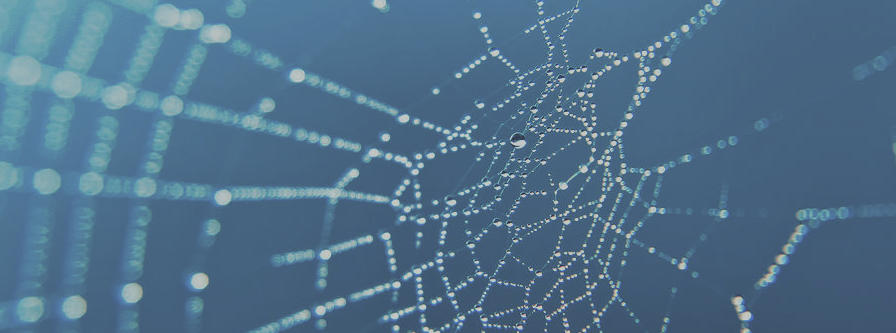
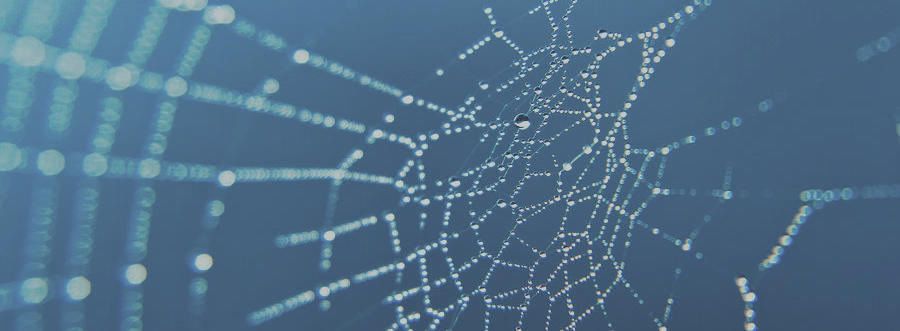
update readme

diff --git a/README.md b/README.md
@@ -1,8 +1,8 @@
-# __Exploratory Data Analysis of US Firework Injury and Sales Reports (2016-2021)__
+# __Using Selenium to Web Scrape Job Postings on Indeed.com__
 
-<img src="https://raw.githubusercontent.com/drusho/EDA_US_Firework_Sales_and_Injuries/main/assets/pexels-ayla-fazioli-5130121_wide.png">
+<img src="https://raw.githubusercontent.com/drusho/webscrapping/main/assets/spider_web.jpg" height="300">
 
-###### _Photo by Ayla Fazioli from Pexels_
+##### Artwork by Dorothy Binder
 
 <br>
 <br>
@@ -10,21 +10,6 @@
 
 ## Links
 ---
-US Firework Sales and Injuries (Part 1) - Cleaning
-   - [Blog Post](https://drusho.github.io/pandas/data%20cleaning/2021/07/14/_06_25_firework_part_1_cleaning.html)
-   - [Google Colab Notebook](https://drive.google.com/file/d/1HoHdYjWWict5lh3yNDFu8dXNp4NVKpI_/view?usp=sharing)
-
-<br>
-
-US Firework Sales and Injuries (Part 2) - Data Analysis
-   - [Blog Post](https://drusho.github.io/pandas/plotly/seaborn/2021/07/14/_07_03_firework_part_2_eda.html)
-   - [Google Colab Notebook](https://colab.research.google.com/drive/1UksUenbmj76pvJPd42b9zzzTkZtMkRy6?usp=sharing)
-
-<br>
-
-[Tableau Dashboard for Fireworks Inuries (2016-2021)](https://public.tableau.com/app/profile/drusho/viz/USFireworkInjuries2016-2021/Dashboard1)
-
-  [<img src="https://raw.githubusercontent.com/drusho/EDA_US_Firework_Sales_and_Injuries/main/assets/tableau_dashboard_preview.png" height="200"/>](https://public.tableau.com/app/profile/drusho/viz/USFireworkInjuries2016-2021/Dashboard1)
 
 
 <br>
@@ -36,72 +21,25 @@ Other Social Media Links:
 <br>
 
 <br>
-<br>
+
 
 ## Project Goals
 ---
 
-1. Provide an overview of incidents that involve fireworks.
-   - Injury frequencies by date
-   - Age Group(s) most affected
-   - Frequency of injury type(s)
-
-2. Provide sales figures for fireworks across the US.
-   - State sales totals by year
-   - World sales of fireworks (top 10)
-
-<br>
-<br>
 
 
 
 ## Summary of Results
 ---
 
-Age group of 0-20 showed the highest rate of injury.
-
-<img src="https://raw.githubusercontent.com/drusho/EDA_US_Firework_Sales_and_Injuries/main/reports/figures/Incident%20Counts%20by%20Age_Bar.png" width="700"/>
-
-<br>
-<br>
-
-Injuries to the hands, face, and eyes were the most common, while injuries to lower extremities were less common.
-
-<img src="https://raw.githubusercontent.com/drusho/EDA_US_Firework_Sales_and_Injuries/main/reports/figures/Incident%20Counts%20by%20Body%20Part.png" height="300"/>
-
-<br>
-<br>
-
-Missouri held the record for most spent on fireworks (over 250 million dollars over the past 5 years).
-
-<img src="https://raw.githubusercontent.com/drusho/EDA_US_Firework_Sales_and_Injuries/main/reports/figures/Total%20State%20Firework%20Sales%20(%24USD)%202016-2020%20(map).png" height="200"/>
-
-<br>
-<br>
-
 
 ## About the Data
 ---
 
 
-1. [Firework Injury Reports](https://www.cpsc.gov/cgibin/NEISSQuery/UserCriteria.aspx?UserAff=5x08cgz9T6YPDAZJzvlZjA%3d%3d&UserAffOther=9OYR9kUytIsLilKZieD5xg%3d%3d)
-
-   Consisted multiple excel incident reports involving fireworks over the past 5 years taken from the U.S. Consumer Product Safety Commission (CPSC).
-
-   NEISS injury data are gathered from the emergency departments (ED) of 96 hospitals selected as a probability sample of all U.S. hospitals with 24-hour EDs and at least 6 inpatient beds. Each participating NEISS hospital is hand-selected by CPSC because it provides an important representation of all other hospitals of its size and unique characteristics in the U.S.
-
-2. [USA Trade Census](https://usatrade.census.gov/)
-
-   Sales and Trade data each state regarding fireworks.  Reports data range from 2016 to April 2021.
-
-<br>
-<br>
-
 ## Resources
 ---
 
-- [CPSC (Consumer Product Safety Commission)](https://www.cpsc.gov/cgibin/NEISSQuery/UserCriteria.aspx?UserAff=5x08cgz9T6YPDAZJzvlZjA%3d%3dUserAffOther=9OYR9kUytIsLilKZieD5xg%3d%3d)
-- [USA Trade Census](https://usatrade.census.gov/)
-- [APA (American Pyrotechnics Assocation)](https://www.americanpyro.com/industry-facts-figures)
-- [Value Penguin: _Fourth of July: Who Uses the Most Fireworks in the US?_ - Sterling Price ](https://www.valuepenguin.com/who-uses-most-fireworks-united-states)
-</details>
+- [Top 25 Selenium Functions That Will Make You Pro In Web Scraping](https://towardsdatascience.com/top-25-selenium-functions-that-will-make-you-pro-in-web-scraping-5c937e027244)
+- [How to build a Web Scraper or Bot in Python using Selenium](https://medium.com/daily-programming-tips/how-to-build-a-web-scraper-or-bot-in-python-using-selenium-2815f20023f7)
+- [Web Scraping Job Postings from Indeed.com using Selenium](https://towardsdatascience.com/web-scraping-job-postings-from-indeed-com-using-selenium-5ae58d155daf)
